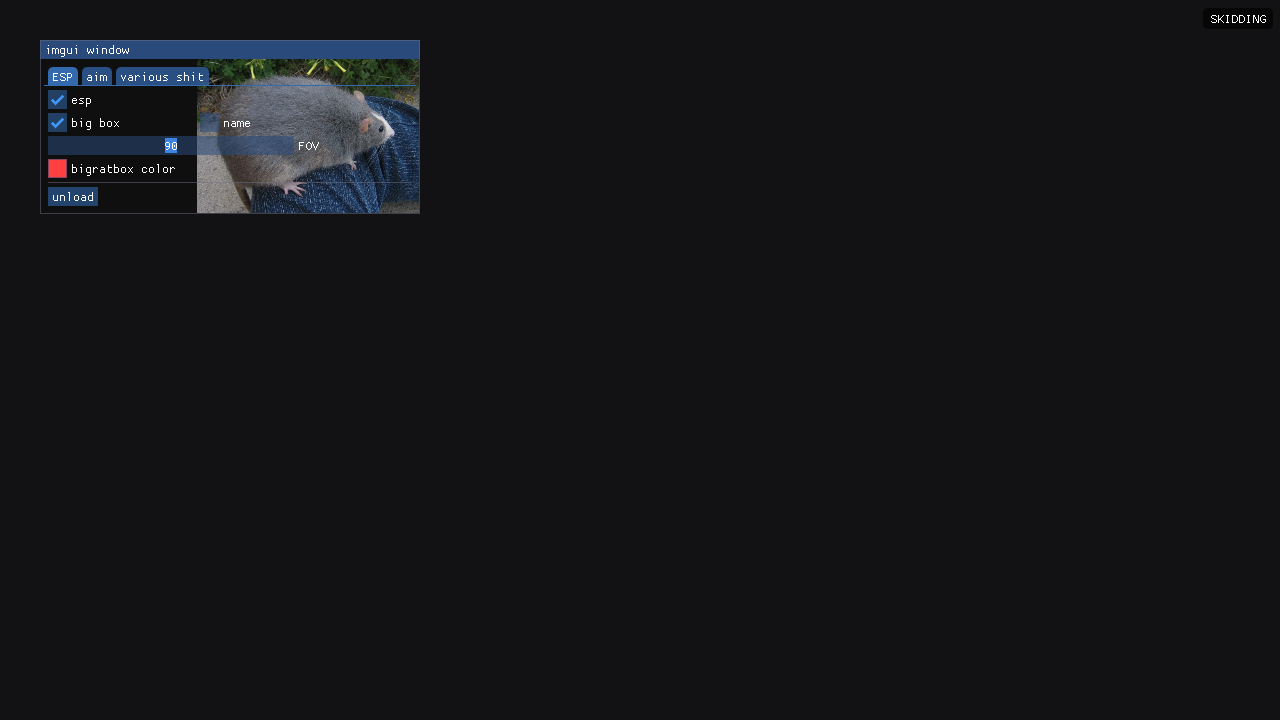
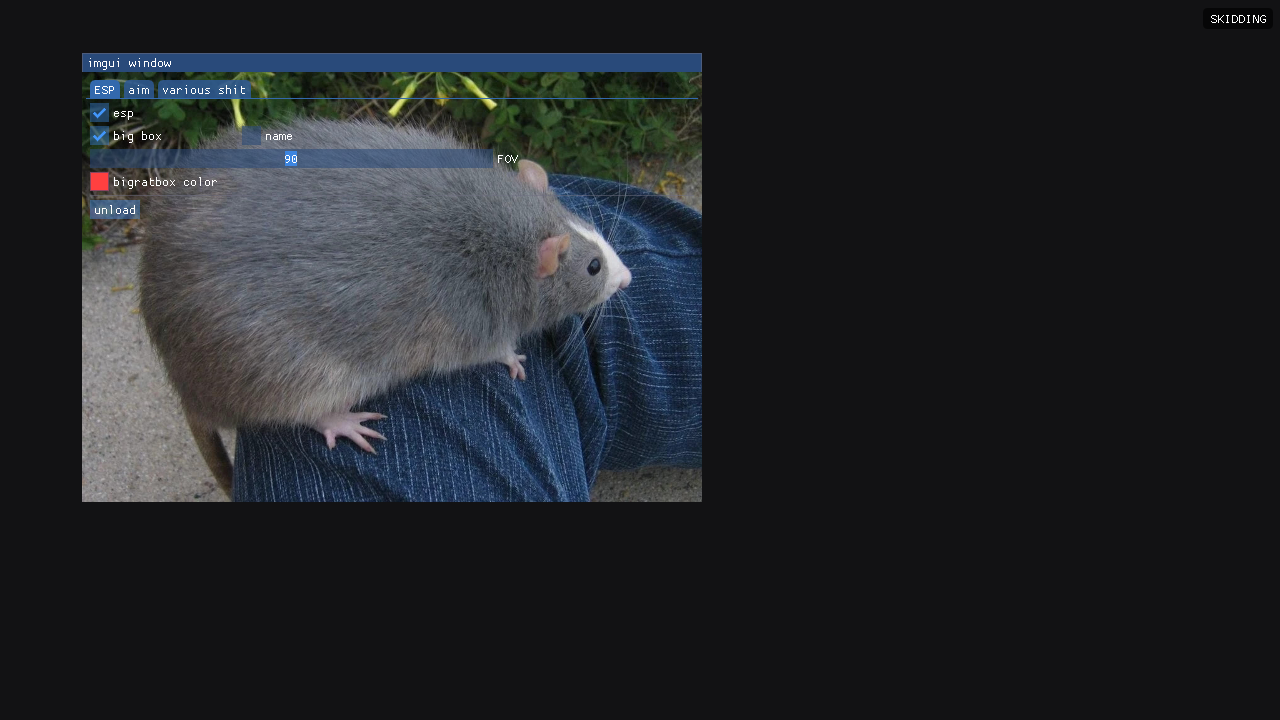
MORE RAT!!!

Changed region(s): [[0.0312, 0.0306, 0.5625, 0.7028]]

diff --git a/main.cpp b/main.cpp
@@ -31,6 +31,7 @@ struct Texture {
 };
 
 constexpr ImGuiKey menukey = ImGuiKey_A;
+constexpr float menuwidth = 620.0f;
 
 Texture loadtexture(const std::filesystem::path& path) {
     Texture t;
@@ -47,17 +48,18 @@ Texture loadtexture(const std::filesystem::path& path) {
     return t;
 }
 
-void drawlogo(const Texture& rat) {
+void drawrat(const Texture& rat, float title) {
     if (!rat.id) {
         return;
     }
     ImVec2 pos = ImGui::GetWindowPos();
     ImVec2 size = ImGui::GetWindowSize();
-    float h = size.y - ImGui::GetFrameHeight();
-    float w = h * rat.w / rat.h;
+    ImVec2 min(pos.x, pos.y + title);
     ImVec2 max(pos.x + size.x, pos.y + size.y);
-    ImVec2 min(max.x - w, max.y - h);
-    ImGui::GetWindowDrawList()->AddImage((ImTextureID)(intptr_t)rat.id, min, max, ImVec2(0.0f, 0.0f), ImVec2(1.0f, 1.0f), IM_COL32_WHITE);
+    ImDrawList* dl = ImGui::GetWindowDrawList();
+    dl->PushClipRect(min, max, false);
+    dl->AddImage((ImTextureID)(intptr_t)rat.id, min, max);
+    dl->PopClipRect();
 }
 
 void drawvisuals(Settings& s) {
@@ -81,9 +83,11 @@ void drawmisc(Settings& s) {
 
 bool drawmenu(Settings& s, const Texture& rat) {
     ImGui::SetNextWindowPos(ImVec2(40.0f, 40.0f), ImGuiCond_FirstUseEver);
-    ImGui::SetNextWindowSize(ImVec2(380.0f, 0.0f), ImGuiCond_FirstUseEver);
-    ImGui::Begin("imgui window", nullptr, ImGuiWindowFlags_NoCollapse);
-    drawlogo(rat);
+    float title = ImGui::GetFrameHeight();
+    float h = rat.id ? menuwidth * rat.h / rat.w : 200.0f;
+    ImGui::SetNextWindowSize(ImVec2(menuwidth, h + title), ImGuiCond_Always);
+    ImGui::Begin("imgui window", nullptr, ImGuiWindowFlags_NoCollapse | ImGuiWindowFlags_NoResize);
+    drawrat(rat, title);
 
     if (ImGui::BeginTabBar("tabs")) {
         if (ImGui::BeginTabItem("ESP")) {
